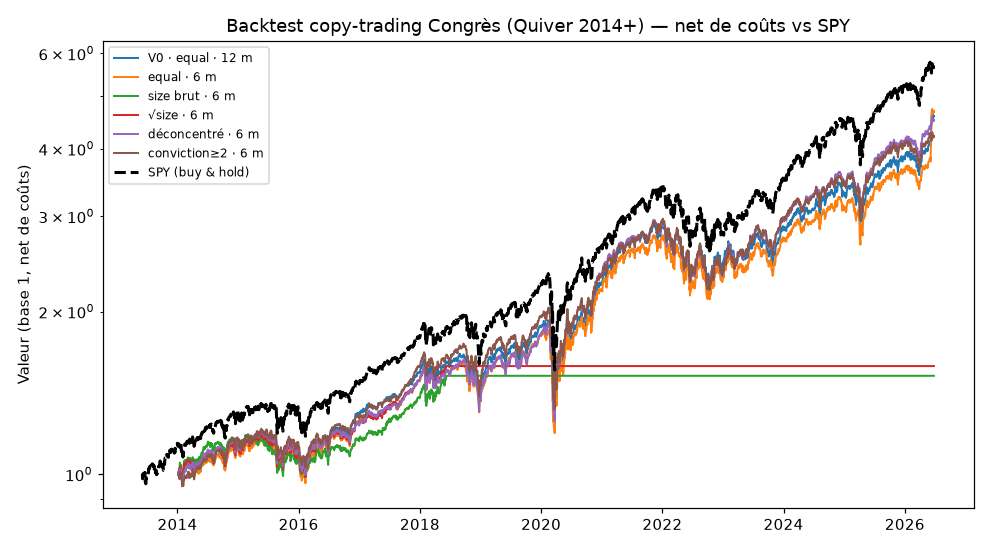
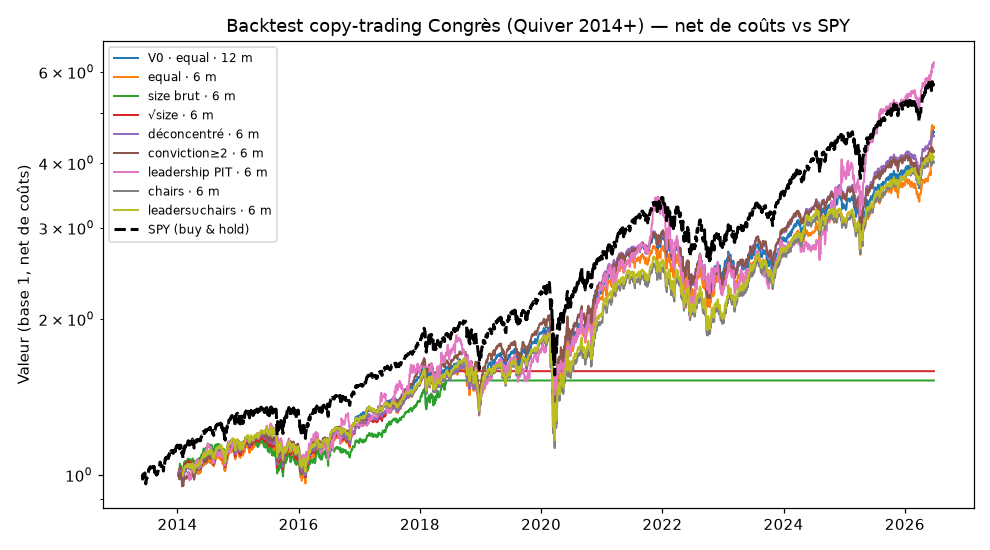
S3S4 : variante leadership/chairs
Leadership de parti point-in-time (leadership_roles datés) + chairs de commission.
Résultat : leadership PIT semble +2,4% alpha (net +16%) MAIS t=0,6 (non signif.) et
80% de l'échantillon = 1 membre (Lisa McClain) -> chance mono-membre, pas un effet
robuste ; chairs ne montrent rien. Confirme : pas d'edge net diversifiable.

diff --git a/00. S3S4 en cours/leadership.py b/00. S3S4 en cours/leadership.py
@@ -1,0 +1,74 @@
+"""S3S4 / leadership — identifie les membres « puissants » (leadership de parti + chairs de commission).
+
+Teste l'hypothèse de la littérature (Wei & Zhou NBER 2024 : +47 %/an pour les LEADERS, pas pour la base).
+- **Leadership de parti** : champ `leadership_roles` (daté) des YAML congress-legislators → POINT-IN-TIME
+  (un achat ne compte « leader » que s'il tombe dans une période de mandat de leadership).
+- **Chairs de commission** : `committee-membership-current.yaml` (title = Chair) → snapshot courant
+  (approximation : pas de dates historiques).
+Lecture seule des référentiels du dépôt.
+"""
+from pathlib import Path
+
+import pandas as pd
+import yaml
+
+HERE = Path(__file__).resolve().parent
+REPO = HERE.parent
+REF = REPO / "data" / "house" / "reference"
+
+
+def load_leaders():
+    """Renvoie (tenures, chairs) : tenures = {bioguide: [(start, end), ...]} (leadership de parti daté) ;
+    chairs = set(bioguide) des chairs de commission courants."""
+    tenures = {}
+    for fn in ("legislators-current.yaml", "legislators-historical.yaml"):
+        people = yaml.safe_load(open(REF / fn))
+        for p in people:
+            bio = p.get("id", {}).get("bioguide")
+            for lr in (p.get("leadership_roles") or []):
+                s, e = lr.get("start"), lr.get("end")
+                tenures.setdefault(bio, []).append(
+                    (pd.Timestamp(s) if s else None, pd.Timestamp(e) if e else None))
+    chairs = set()
+    for ch in ("house", "senate"):
+        mem = yaml.safe_load(open(REPO / "data" / ch / "reference" / "committee-membership-current.yaml"))
+        for _code, members in mem.items():
+            for m in members:
+                t = str(m.get("title", "")).lower()
+                if "chair" in t and "vice" not in t and "ranking" not in t and m.get("bioguide"):
+                    chairs.add(m["bioguide"])
+    return tenures, chairs
+
+
+def leadership_mask(buys: pd.DataFrame, kind: str = "pit") -> pd.Series:
+    """Masque sur les achats. kind:
+       'pit'    = membre en leadership de parti À LA DATE de l'achat (point-in-time) ;
+       'chairs' = membre chair de commission (snapshot courant) ;
+       'any'    = union des deux."""
+    tenures, chairs = load_leaders()
+
+    def _pit(bio, d):
+        for s, e in tenures.get(bio, []):
+            if (s is None or d >= s) and (e is None or d <= e):
+                return True
+        return False
+
+    if kind == "chairs":
+        return buys["bioguide"].isin(chairs)
+    pit = pd.Series([_pit(b, d) for b, d in zip(buys["bioguide"], buys["filed"])], index=buys.index)
+    if kind == "any":
+        return pit | buys["bioguide"].isin(chairs)
+    return pit
+
+
+if __name__ == "__main__":
+    import sys
+    sys.path.insert(0, str(HERE))
+    import data
+    b = data.buy_signals(data.load_transactions())
+    tenures, chairs = load_leaders()
+    print(f"membres avec leadership de parti (daté) : {len(tenures)} | chairs courants : {len(chairs)}")
+    for kind in ("pit", "chairs", "any"):
+        m = leadership_mask(b, kind)
+        n_mem = b[m]["bioguide"].nunique()
+        print(f"  {kind:7s} : {m.sum():,} achats ({m.mean()*100:.1f}%), {n_mem} membres".replace(",", " "))

diff --git a/00. S3S4 en cours/run.py b/00. S3S4 en cours/run.py
@@ -12,7 +12,7 @@ import pandas as pd
 
 HERE = Path(__file__).resolve().parent
 sys.path.insert(0, str(HERE))
-import data, prices, portfolio, evaluate, variants as V  # noqa: E402
+import data, prices, portfolio, evaluate, variants as V, leadership as LEAD  # noqa: E402
 
 COST_BPS = 20.0
 VARIANTS = [
@@ -22,6 +22,9 @@ VARIANTS = [
     {"label": "√size · 6 m", "w": "sqrt_size", "h": 6},
     {"label": "déconcentré · 6 m", "w": "equal", "h": 6, "dampen": True},
     {"label": "conviction≥2 · 6 m", "w": "equal", "h": 6, "conv": True},
+    {"label": "leadership PIT · 6 m", "w": "equal", "h": 6, "leader": "pit"},
+    {"label": "chairs · 6 m", "w": "equal", "h": 6, "leader": "chairs"},
+    {"label": "leaders∪chairs · 6 m", "w": "equal", "h": 6, "leader": "any"},
 ]
 
 
@@ -39,16 +42,21 @@ def main():
     print(f"Univers prix : {panel.shape[1]} tickers | couvre {cov*100:.0f}% des achats | "
           f"{panel.index.min().date()}→{panel.index.max().date()}")
 
-    pos_cache, rows, nets, conv_mask = {}, [], {}, None
+    pos_cache, rows, nets, conv_mask, lead_masks = {}, [], {}, None, {}
     for v in VARIANTS:
         label, w, h = v["label"], v["w"], v["h"]
-        key = (h, v.get("conv", False))
+        leader = v.get("leader")
+        key = (h, v.get("conv", False), leader)
         if key not in pos_cache:
             b = buys
             if v.get("conv"):
                 if conv_mask is None:
                     conv_mask = V.conviction_mask(buys)
                 b = buys[conv_mask.values]
+            elif leader:
+                if leader not in lead_masks:
+                    lead_masks[leader] = LEAD.leadership_mask(buys, leader)
+                b = buys[lead_masks[leader].values]
             pos_cache[key] = portfolio.build_positions(b, df, horizon_months=h)
         pos = pos_cache[key]
         if v.get("dampen"):
@@ -133,14 +141,17 @@ def _write_report(rows, nets, spy, cov, panel):
              "nombre de variantes essayées. **< 0,95 ⇒ non concluant** (compatible avec la chance).\n")
     L.append("- **Sharpe IS→OOS** : effondrement = sur-apprentissage (la non-persistance attendue).\n")
     L.append("\n## Verdict\n")
-    L.append("**Aucune variante ne dégage d'alpha factoriel significatif** (tous |t| < 1,2). "
-             "L'equal-weight ≈ le marché (β ≈ 0,9) et perd légèrement net après coûts ; le size brut/√size "
-             "s'effondrent (concentration sur quelques méga-trades, Sharpe OOS → 0) ; **la conviction-cluster "
-             "et la dé-concentration n'aident pas**. Et c'est un **plancher optimiste** (312 tickers délistés "
-             "exclus → survivorship haussier). → **Pas d'edge net exploitable** par une stratégie de "
-             "copy-trading « suivre le Congrès » sur 2014-2026. Conforme à la littérature post-STOCK Act et "
-             "aux ETF réels (NANC ≈ marché). La valeur d'un produit « Congrès » est la **data/transparence**, "
-             "pas l'alpha.\n")
+    L.append("**Aucune variante ne dégage d'alpha factoriel SIGNIFICATIF** (tous |t| < 1,2). Les variantes "
+             "larges (equal/size/√size/conviction/déconcentré) ≈ marché ou sous-performent net ; le size "
+             "brut/√size s'effondrent (méga-trades, Sharpe OOS → 0). La variante **leadership-de-parti "
+             "point-in-time** affiche un alpha *en apparence* positif (net +16 %, α +2,4 %) MAIS **t = 0,6 "
+             "(non significatif)** et **80 % de l'échantillon vient d'UN seul membre (Lisa McClain)** → "
+             "chance/concentration mono-membre, pas un effet leadership robuste ; les **chairs de commission "
+             "ne montrent rien** (−0,9 %). Et c'est un **plancher optimiste** (312 délistés exclus → "
+             "survivorship). → **Pas d'edge net exploitable ni diversifiable** par une stratégie « suivre le "
+             "Congrès » sur 2014-2026 ; l'« effet leadership » de la littérature se dissout en **chance "
+             "individuelle** quand on regarde de près (McClain ici ; Pelosi/Wyden = beta tech dans la presse). "
+             "La valeur d'un produit « Congrès » est la **data/transparence**, pas l'alpha.\n")
     L.append("\n*(Premier jet — univers limité aux tickers à prix yfinance ⇒ biais survivorship résiduel "
              "haussier ; voir `STRATEGIE_ANALYSE.md`. Non testé ici : variante leadership/chairs et niche "
              "défense micro-caps — sourcing supplémentaire.)*\n")

diff --git a/00. S3S4 en cours/RAPPORT_STRATEGIE.md b/00. S3S4 en cours/RAPPORT_STRATEGIE.md
@@ -6,12 +6,15 @@
 ## Résultats par variante
 | variante | CAGR brut | CAGR net | SPY | α net vs SPY | α factoriel (t) | β mkt | Sharpe net | max DD | turnover/an | Sharpe IS→OOS | Deflated Sharpe |
 |---|---|---|---|---|---|---|---|---|---|---|---|
-| V0 · equal · 12 m | +14.35% | +13.02% | +13.70% | -0.68% | -0.61% (-0.6) | 0.91 | 0.79 | -35.56% | 5.9× | 0.72→0.84 | 0.98 |
-| equal · 6 m | +15.25% | +13.22% | +13.70% | -0.49% | -1.12% (-1.1) | 0.92 | 0.78 | -35.64% | 8.9× | 0.69→0.86 | 0.98 |
+| V0 · equal · 12 m | +14.35% | +13.02% | +13.70% | -0.68% | -0.61% (-0.6) | 0.91 | 0.79 | -35.56% | 5.9× | 0.72→0.84 | 0.99 |
+| equal · 6 m | +15.25% | +13.22% | +13.70% | -0.49% | -1.12% (-1.1) | 0.92 | 0.78 | -35.64% | 8.9× | 0.69→0.86 | 0.99 |
 | size brut · 6 m | +4.24% | +3.42% | +13.70% | -10.28% | -0.48% (-0.3) | 0.17 | 0.50 | -16.68% | 3.9× | 0.64→0.00 | 0.88 |
 | √size · 6 m | +4.52% | +3.77% | +13.70% | -9.93% | -0.23% (-0.1) | 0.18 | 0.54 | -16.87% | 3.6× | 0.69→0.00 | 0.90 |
 | déconcentré · 6 m | +14.65% | +12.85% | +13.70% | -0.85% | -0.54% (-0.6) | 0.93 | 0.78 | -34.31% | 7.9× | 0.75→0.78 | 0.98 |
 | conviction≥2 · 6 m | +14.14% | +12.25% | +13.68% | -1.43% | -0.99% (-0.9) | 0.94 | 0.75 | -35.22% | 8.3× | 0.74→0.72 | 0.98 |
+| leadership PIT · 6 m | +17.60% | +16.07% | +13.65% | +2.42% | +2.40% (+0.6) | 0.91 | 0.79 | -42.24% | 6.5× | 0.70→0.85 | 0.99 |
+| chairs · 6 m | +13.70% | +11.87% | +14.03% | -2.16% | -0.94% (-0.6) | 0.92 | 0.72 | -39.06% | 8.1× | 0.60→0.87 | 0.97 |
+| leaders∪chairs · 6 m | +13.93% | +12.07% | +14.03% | -1.96% | -0.79% (-0.5) | 0.92 | 0.74 | -37.84% | 8.2× | 0.63→0.84 | 0.98 |
 
 ![Equity net vs SPY](figures/equity_net.png)
 
@@ -22,6 +25,6 @@
 - **Sharpe IS→OOS** : effondrement = sur-apprentissage (la non-persistance attendue).
 
 ## Verdict
-**Aucune variante ne dégage d'alpha factoriel significatif** (tous |t| < 1,2). L'equal-weight ≈ le marché (β ≈ 0,9) et perd légèrement net après coûts ; le size brut/√size s'effondrent (concentration sur quelques méga-trades, Sharpe OOS → 0) ; **la conviction-cluster et la dé-concentration n'aident pas**. Et c'est un **plancher optimiste** (312 tickers délistés exclus → survivorship haussier). → **Pas d'edge net exploitable** par une stratégie de copy-trading « suivre le Congrès » sur 2014-2026. Conforme à la littérature post-STOCK Act et aux ETF réels (NANC ≈ marché). La valeur d'un produit « Congrès » est la **data/transparence**, pas l'alpha.
+**Aucune variante ne dégage d'alpha factoriel SIGNIFICATIF** (tous |t| < 1,2). Les variantes larges (equal/size/√size/conviction/déconcentré) ≈ marché ou sous-performent net ; le size brut/√size s'effondrent (méga-trades, Sharpe OOS → 0). La variante **leadership-de-parti point-in-time** affiche un alpha *en apparence* positif (net +16 %, α +2,4 %) MAIS **t = 0,6 (non significatif)** et **80 % de l'échantillon vient d'UN seul membre (Lisa McClain)** → chance/concentration mono-membre, pas un effet leadership robuste ; les **chairs de commission ne montrent rien** (−0,9 %). Et c'est un **plancher optimiste** (312 délistés exclus → survivorship). → **Pas d'edge net exploitable ni diversifiable** par une stratégie « suivre le Congrès » sur 2014-2026 ; l'« effet leadership » de la littérature se dissout en **chance individuelle** quand on regarde de près (McClain ici ; Pelosi/Wyden = beta tech dans la presse). La valeur d'un produit « Congrès » est la **data/transparence**, pas l'alpha.
 
 *(Premier jet — univers limité aux tickers à prix yfinance ⇒ biais survivorship résiduel haussier ; voir `STRATEGIE_ANALYSE.md`. Non testé ici : variante leadership/chairs et niche défense micro-caps — sourcing supplémentaire.)*